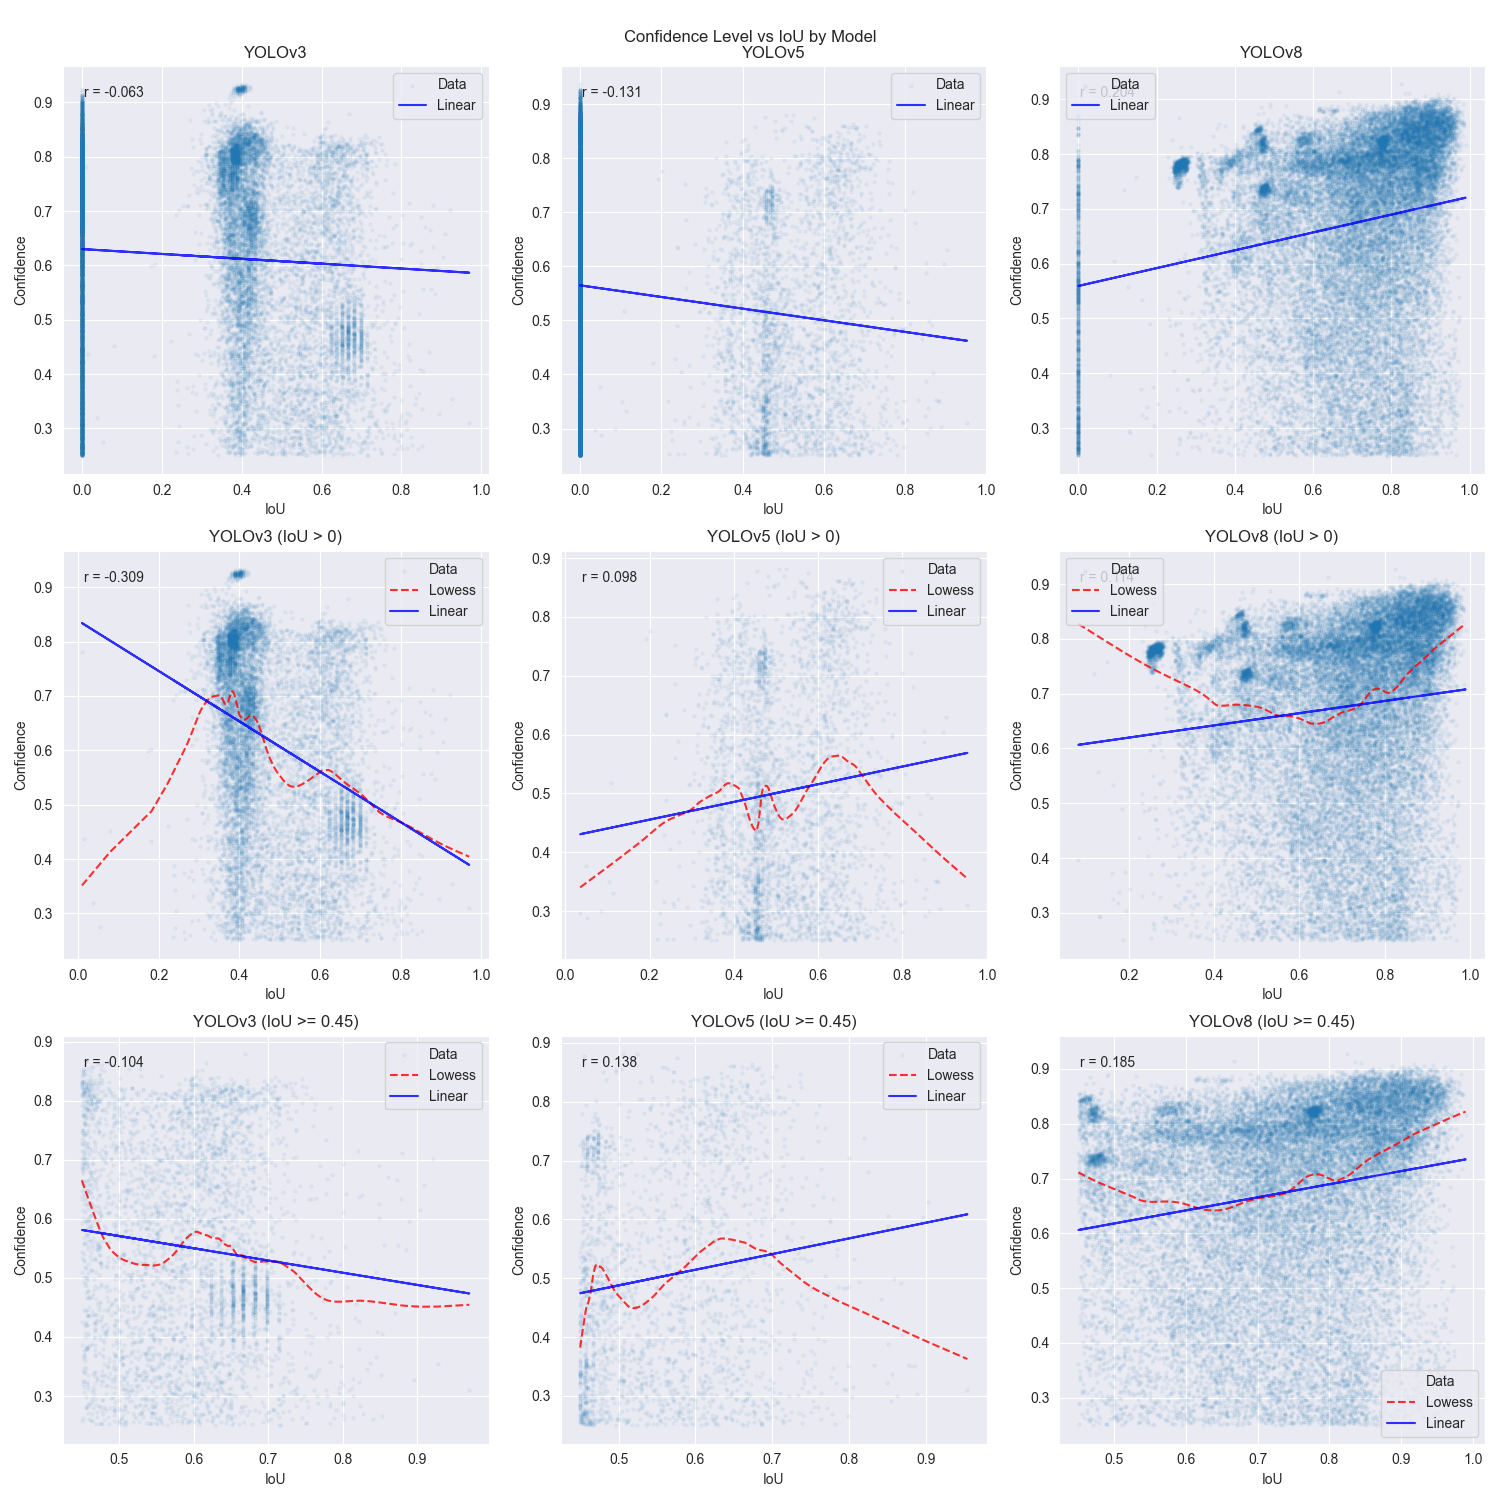
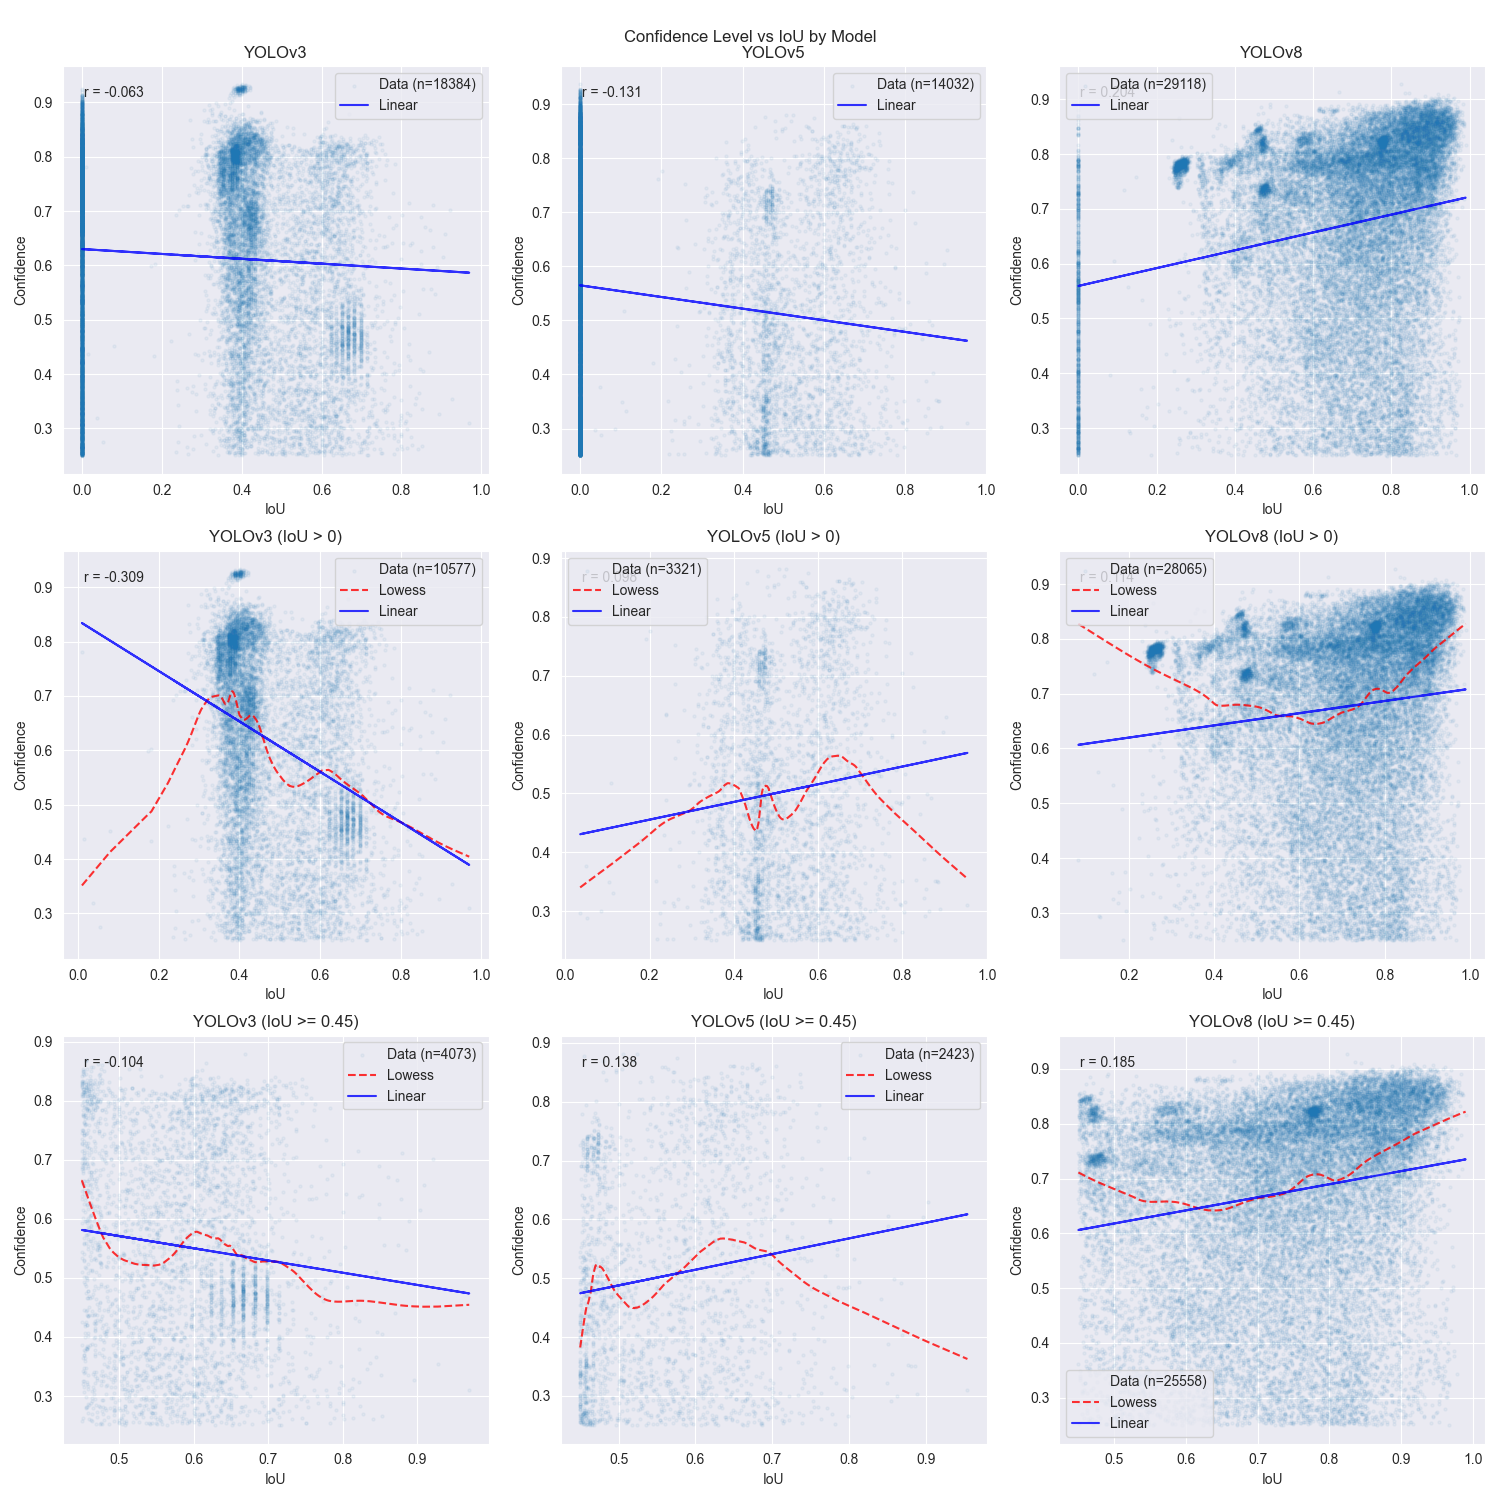
chore(iou CL) add n to legend

diff --git a/data_analysis_scripts/confidence_level_iou_analysis.py b/data_analysis_scripts/confidence_level_iou_analysis.py
@@ -107,7 +107,7 @@ def main():
                        transform=axes[0][i].transAxes,
                        verticalalignment='top')
         
-        axes[0][i].legend(['Data', 'Linear'])
+        axes[0][i].legend([f'Data (n={len(model_data)})', 'Linear'])
 
     for i, model in enumerate(['YOLOv3', 'YOLOv5', 'YOLOv8']):
         model_data = yolo_df[yolo_df['model_version'] == model]
@@ -134,7 +134,7 @@ def main():
                        transform=axes[1][i].transAxes,
                        verticalalignment='top')
         
-        axes[1][i].legend(['Data', 'Lowess', 'Linear'])
+        axes[1][i].legend([f'Data (n={len(model_data)})', 'Lowess', 'Linear'])
 
     for i, model in enumerate(['YOLOv3', 'YOLOv5', 'YOLOv8']):
         model_data = yolo_df[yolo_df['model_version'] == model]
@@ -161,7 +161,7 @@ def main():
                        transform=axes[2][i].transAxes,
                        verticalalignment='top')
         
-        axes[2][i].legend(['Data', 'Lowess', 'Linear'])
+        axes[2][i].legend([f'Data (n={len(model_data)})', 'Lowess', 'Linear'])
 
     plt.tight_layout()
     os.makedirs('./results', exist_ok=True)
